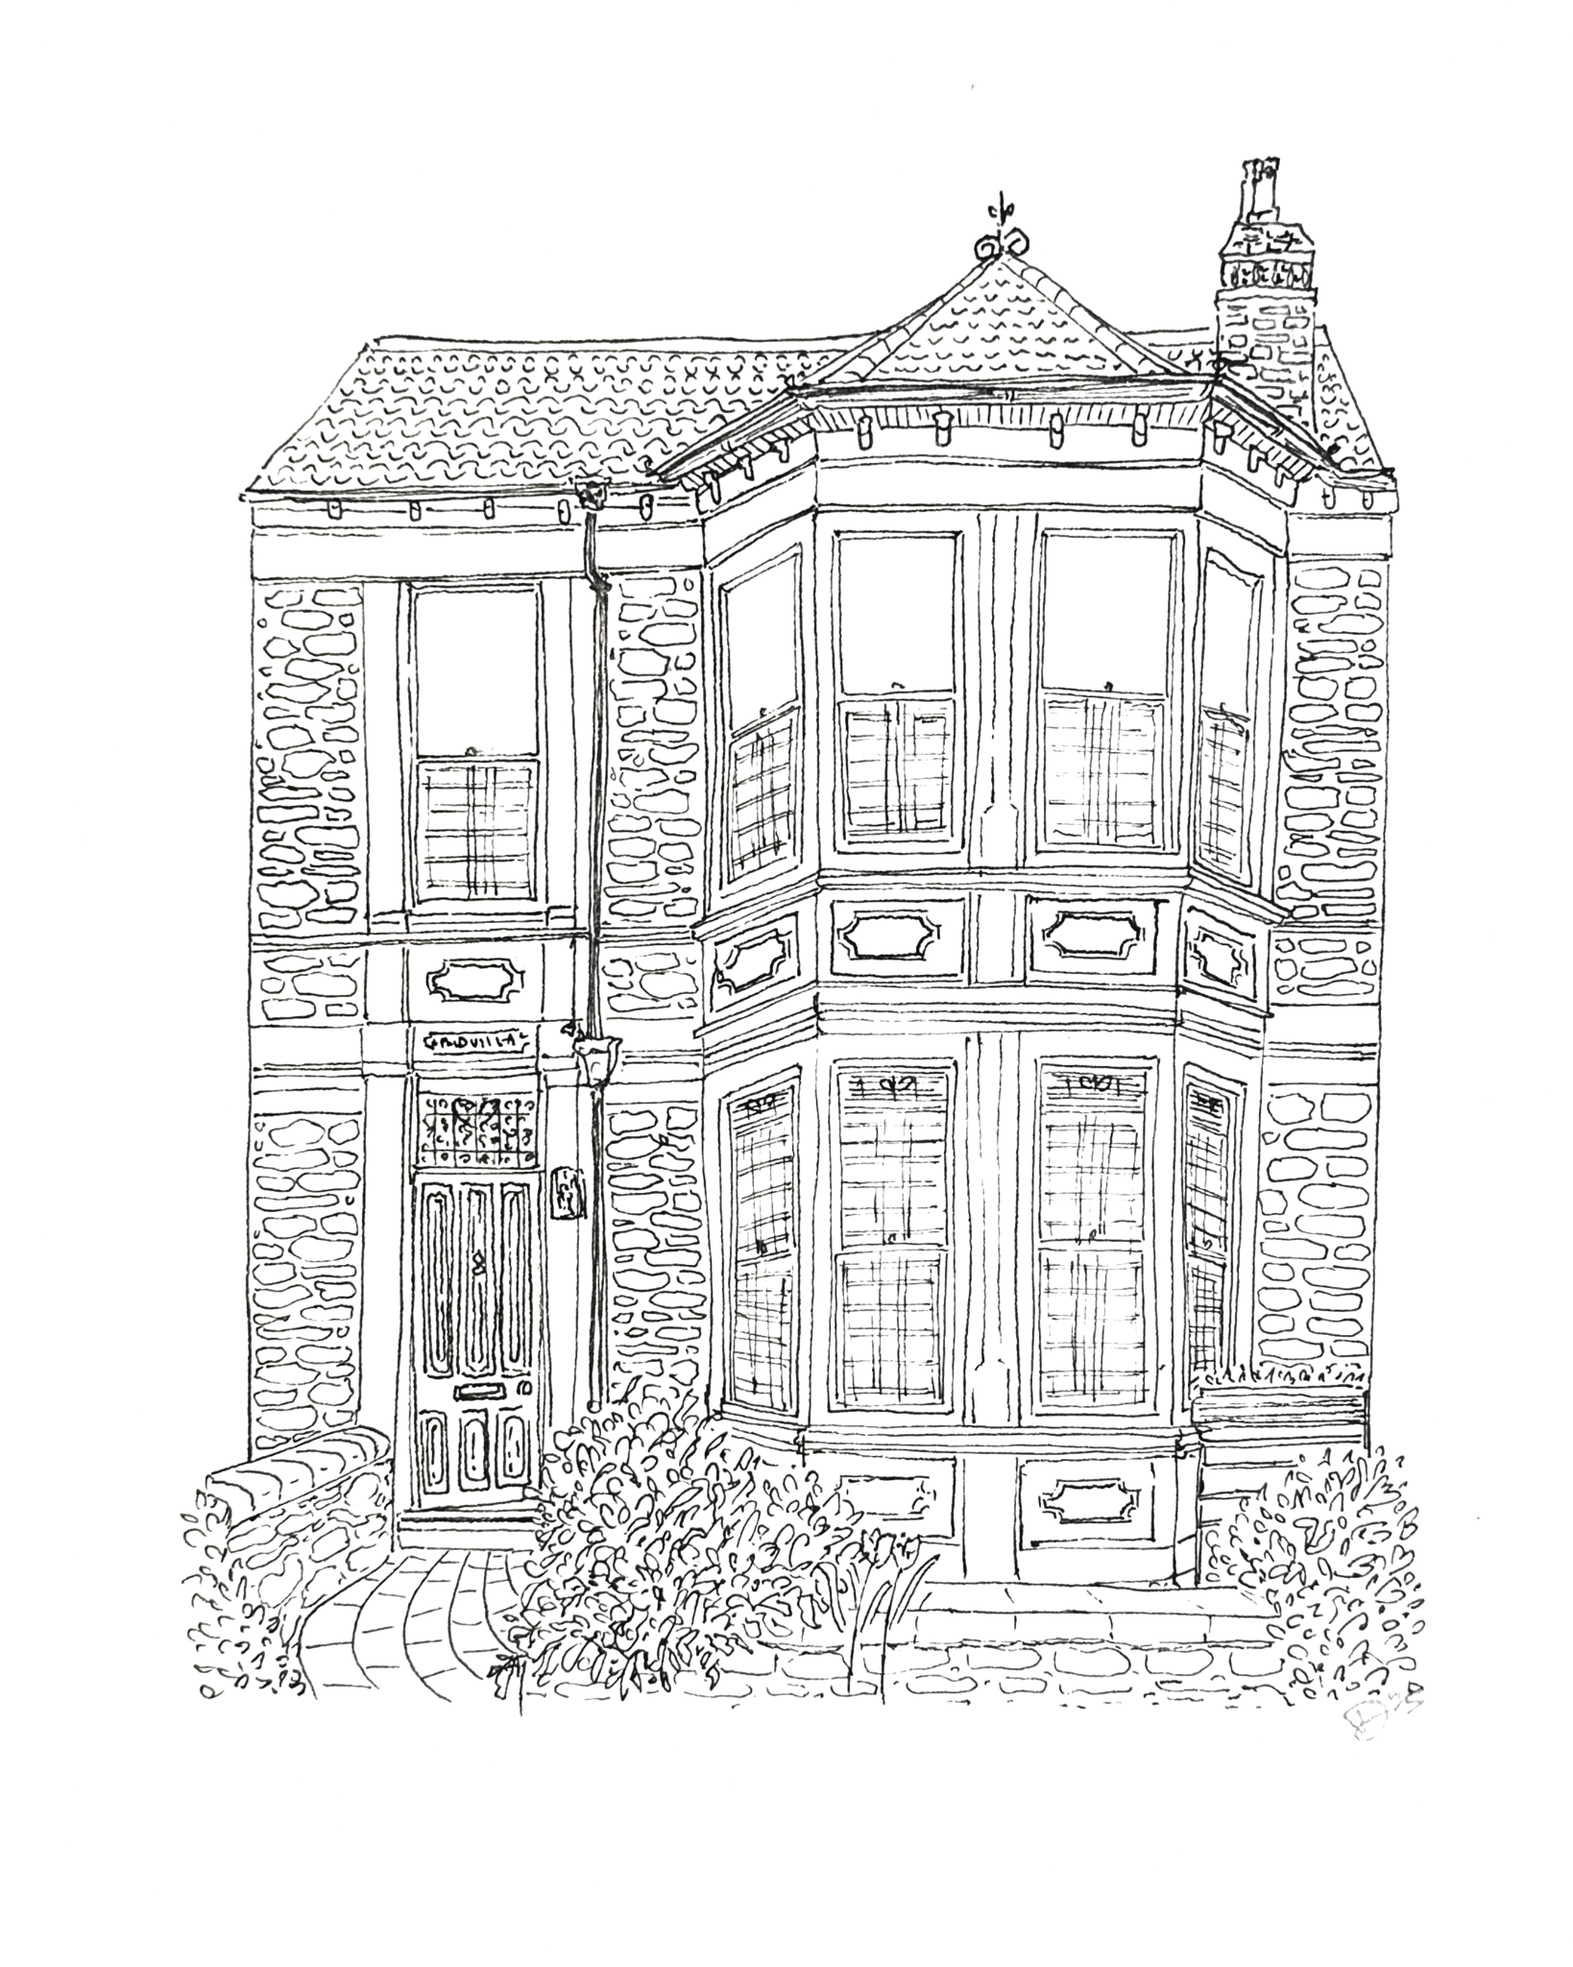
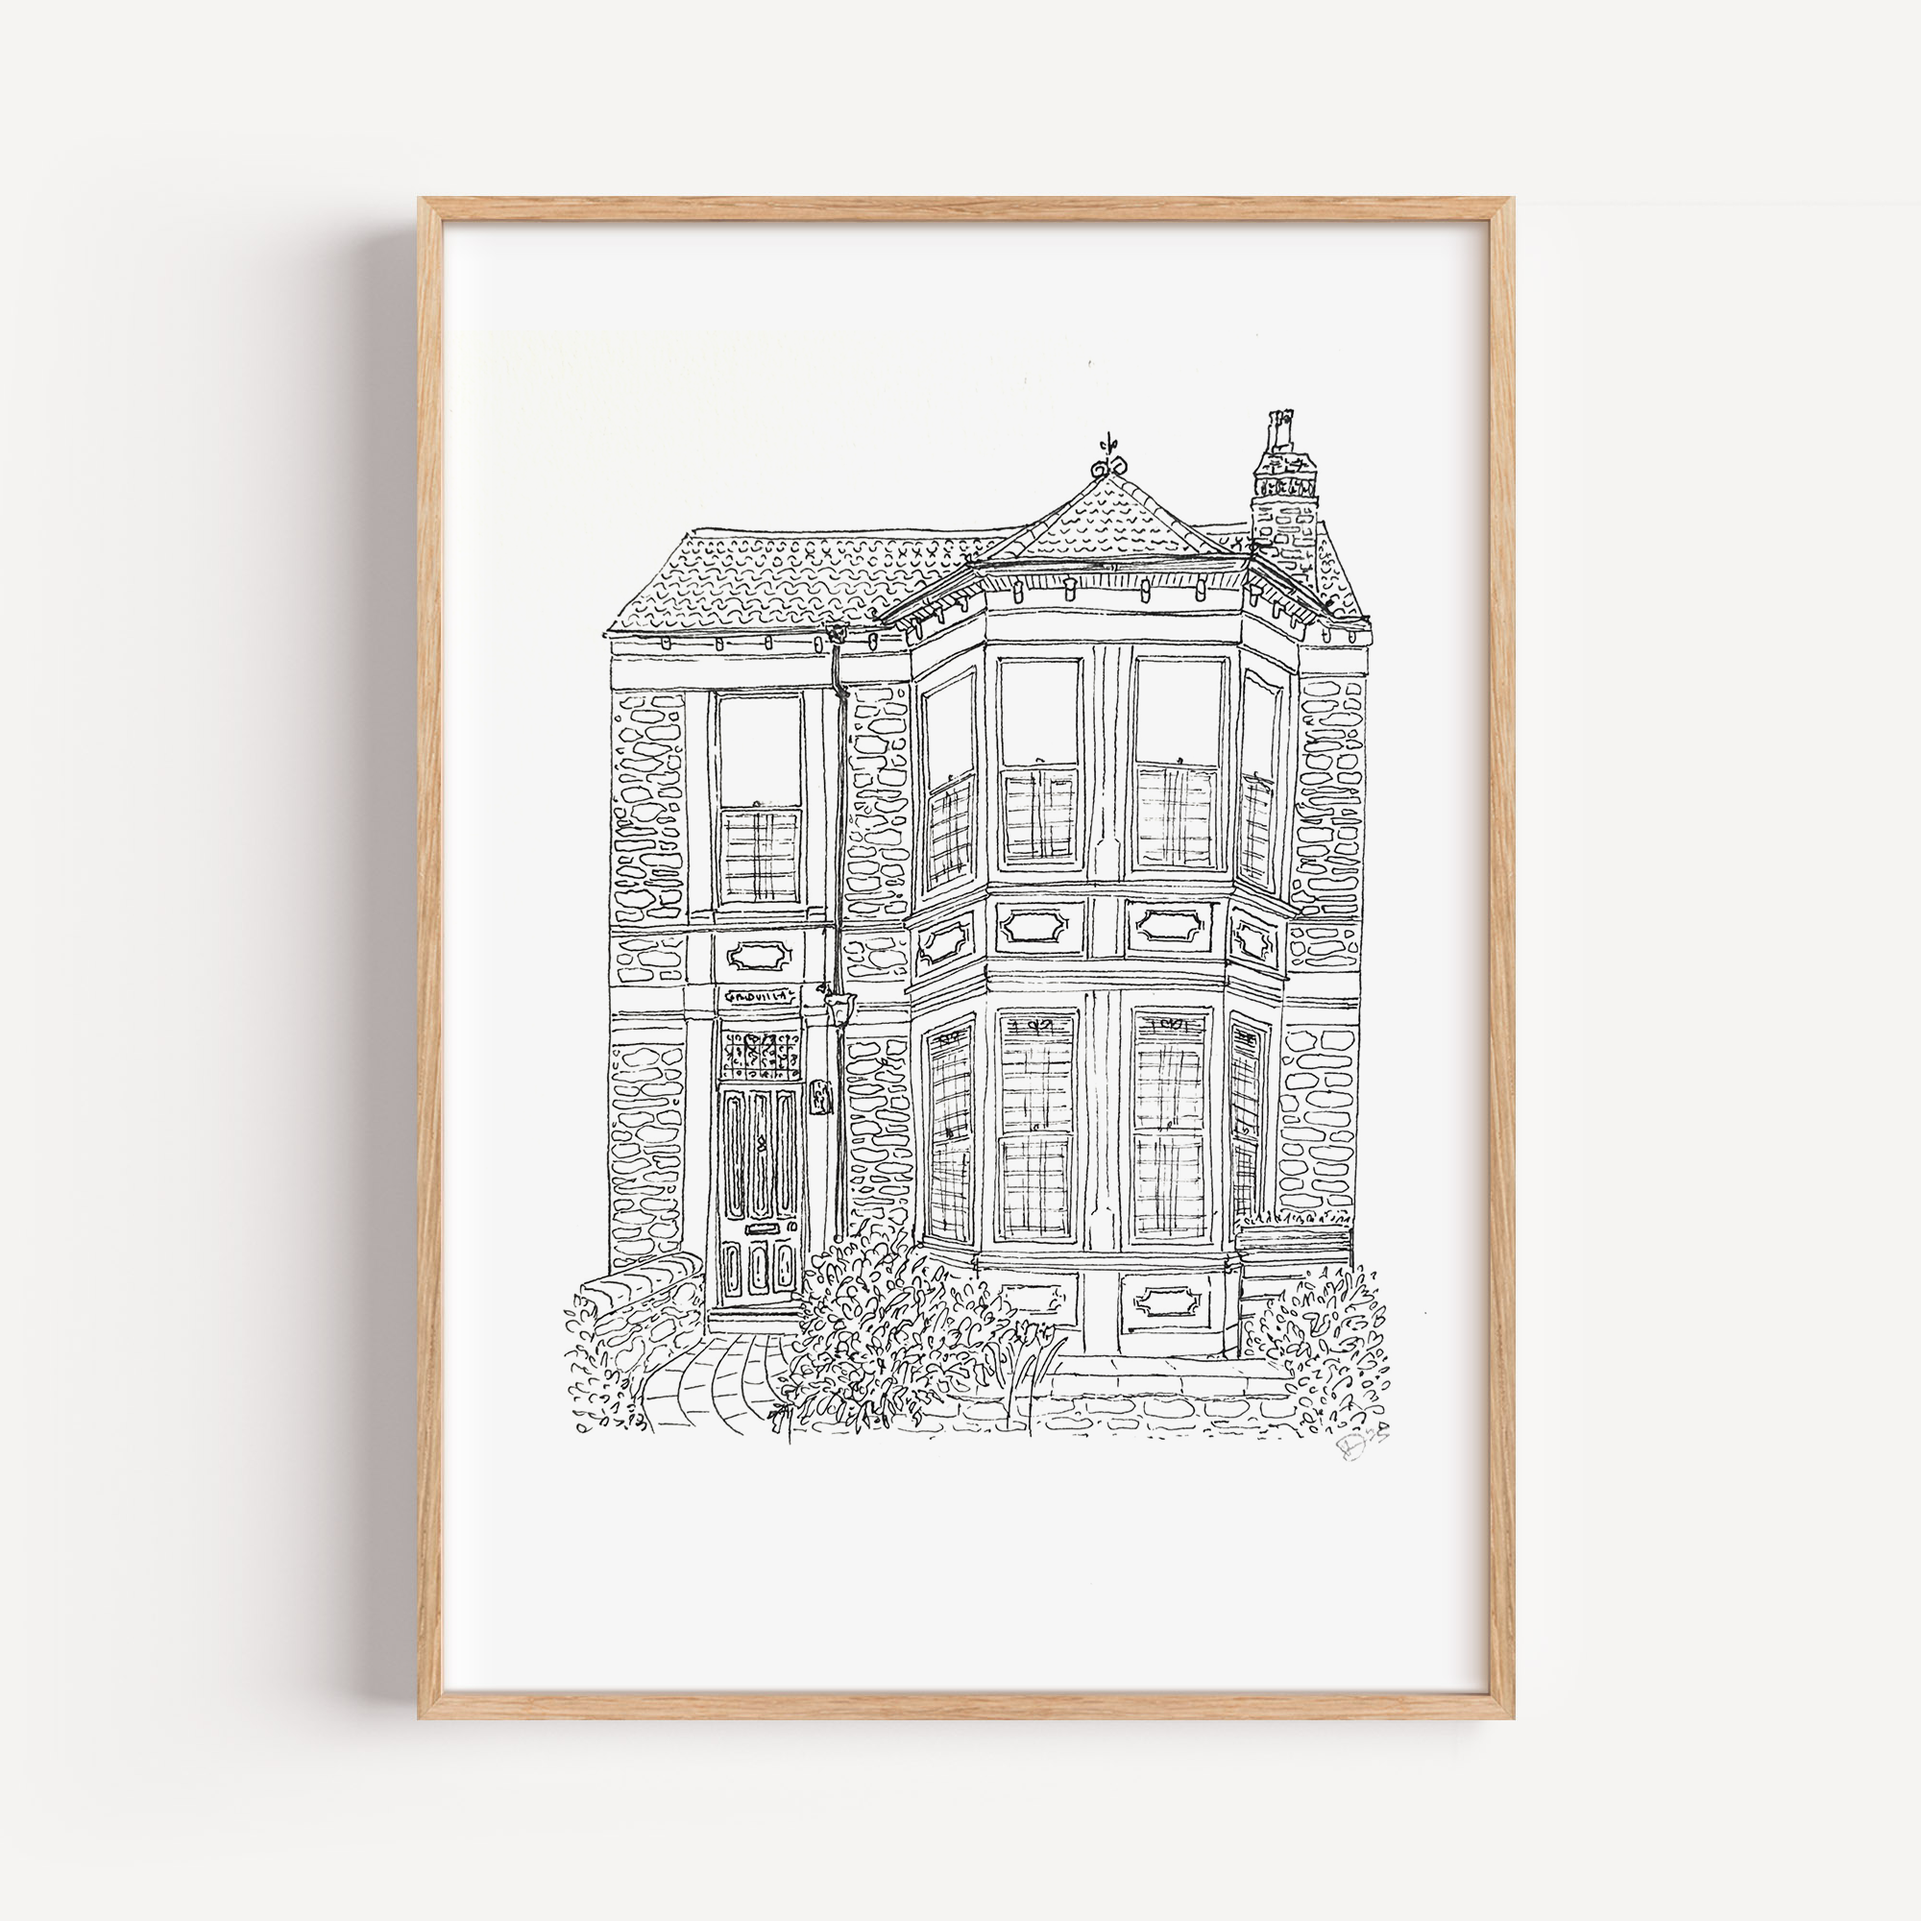
add test mockup

diff --git a/commission-form.html b/commission-form.html
@@ -67,6 +67,23 @@ form{padding:30px 0 100px}.field{display:grid;grid-template-columns:minmax(180px
 .form-guide-image{border:1px solid rgba(17,17,17,.18)!important;box-shadow:0 7px 20px rgba(17,17,17,.08)}
 @media(max-width:720px){:root{--pad:20px}.site-header{padding:14px var(--pad)}input,textarea,select{font-size:16px!important}.form-guide-image{box-shadow:0 5px 16px rgba(17,17,17,.09)}.button,button[type="submit"]{min-height:46px}}
 @media(max-width:420px){:root{--pad:16px}}
+
+/* Keep hero words aligned on mobile */
+@media (max-width: 720px) {
+  .hero-title {
+    font-size: clamp(48px, 15.8vw, 76px) !important;
+    line-height: 0.86;
+    width: 100%;
+    max-width: 100%;
+    letter-spacing: -0.045em;
+  }
+}
+
+@media (max-width: 420px) {
+  .hero-title {
+    font-size: 15.5vw !important;
+  }
+}
 </style>
 </head>
 <body>
